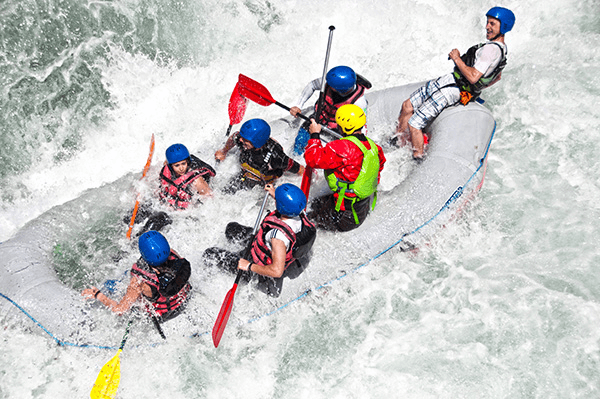
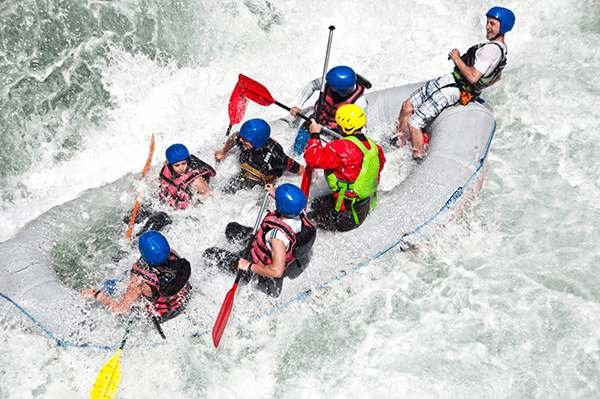
add wwr/images/

diff --git a/wwr/about.html b/wwr/about.html
@@ -15,61 +15,46 @@
     <header>
         <img src="images/logo.png" alt="Rapids! Rafting Logo" width="150">
         <nav>
-            <ul>
-                <li><a href="index.html">Home</a></li>
-                <li><a href="about.html">About Us</a></li>
-                <li><a href="trips.html">Trip</a></li>
-                <li><a href="contact.html">Contact Us</a></li>
-            </ul>
+            <a href="index.html">Home</a>
+            <a href="about.html">About Us</a>
+            <a href="trips.html">Trips</a>
+            <a href="contact.html">Contact Us</a>
         </nav>
     </header>
 
     <main>
-        <!-- Hero Section -->
         <div class="hero">
             <img src="images/hero.jpg" alt="White water rafting on a wild river">
-
-            <!-- Overlay Banner -->
-            <div class="hero-banner">
-                <h1>Rapids! Make Memories!</h1>
-            </div>
-
-            <!-- Mission Box -->
-            <div class="mission-box">
+            <h1>Rapids! Make Memories!</h1>
+            <article>
+                <img src="images/small-rafting.jpg" alt="Small rafting action shot">
                 <p>Our goal is to provide you with the best experience possible. We have been
                     providing unforgettable experiences for over 30 years. We are a family owned and
                     operated business that is dedicated to providing you with the best experience
-                    possible. We have a team of experienced guides that are dedicated to providing
-                    you with the best experience possible.</p>
-                <img src="images/small-rafting.jpg" alt="Small rafting action shot"
-                  class="small-image">
-            </div>
+                    possible.</p>
+            </article>
         </div>
 
-        <!-- History Section -->
-        <section class="history-section">
+        <section>
             <h2>History</h2>
             <p>Rapids! started floating the river in 1995. We have been providing unforgettable
                 experiences for over 30 years. We are a family owned and operated business that is
-                dedicated to providing you with the best experience possible. We have a team of
-                experienced guides that are dedicated to providing you with the best experience
-                possible.</p>
+                dedicated to providing you with the best experience possible.</p>
         </section>
 
-        <!-- Adventure Section -->
-        <section class="adventure-section">
-            <h2>Adventure Awaits You</h2>
+        <section>
+            <h2>Adventure Awaits You!</h2>
         </section>
     </main>
 
     <footer>
         <p>&copy;2026 | Rapids! | Aniwen Blessing</p>
-        <div class="socialmedia">
+        <nav class="socialmedia">
             <a href="https://facebook.com"><img src="images/facebook-icon.png" alt="Facebook"></a>
             <a href="https://twitter.com"><img src="images/twitter-icon.png" alt="X (Twitter)"></a>
             <a href="https://instagram.com"><img src="images/instagram-icon.png"
                   alt="Instagram"></a>
-        </div>
+        </nav>
     </footer>
 </body>
 

diff --git a/wwr/styles/rafting.css b/wwr/styles/rafting.css
@@ -28,24 +28,24 @@ footer {
     margin: 0 auto;
 }
 
-/* ===== Header ===== */
-header img {
-    display: block;
-    margin-bottom: 10px;
-}
-
-header nav ul {
-    list-style-type: none;
-    padding: 0;
-}
-
-header nav li {
-    margin: 5px 0;
-}
-
-header nav a {
-    text-decoration: none;
+/* ===== Typography / Headings ===== */
+h1,
+h2 {
+    font-family: var(--heading-font);
     color: var(--primary-color);
+    margin: 16px 0;
+}
+
+/* ===== Navigation ===== */
+header nav {
+    display: flex;
+    gap: 16px;
+    margin: 16px 0;
+}
+
+.socialmedia a {
+    text-decoration: none;
+    margin: 0 8px;
 }
 
 /* ===== Hero Section ===== */
@@ -60,69 +60,48 @@ header nav a {
     height: auto;
 }
 
-/* Hero Banner (Dark Blue Bar with White Text) */
-.hero-banner {
+.hero h1 {
     position: absolute;
-    top: 0;
-    left: 0;
+    top: 20px;
     width: 100%;
-    background-color: var(--primary-color);
-    padding: 16px;
     text-align: center;
-}
-
-.hero-banner h1 {
-    color: white;
+    background-color: var(--accent1-color);
+    color: #000;
+    padding: 16px;
     font-size: 2.2rem;
     margin: 0;
 }
 
-/* Mission Box (Dark Semi-Transparent Box Over Image) */
-.mission-box {
+.hero article {
     position: absolute;
     bottom: 20px;
     left: 20px;
-    width: calc(100% - 40px);
-    background-color: rgba(0, 0, 0, 0.7);
-    color: white;
-    padding: 16px;
+    background-color: rgba(255, 255, 255, 0.85);
+    padding: 12px;
     border-radius: 8px;
-    display: flex;
-    align-items: center;
-    gap: 16px;
+    max-width: 60%;
+    color: var(--primary-color);
 }
 
-.mission-box p {
-    margin: 0;
-    flex: 1;
-    line-height: 1.5;
-}
-
-.mission-box .small-image {
-    width: 100px;
-    border-radius: 4px;
-    flex-shrink: 0;
+.hero article img {
+    float: right;
+    width: 125px;
+    margin-left: 12px;
+    border-radius: 6px;
 }
 
 /* ===== Sections ===== */
-.history-section,
-.adventure-section {
-    margin: 20px 0;
-    padding: 0;
+section {
+    margin: 16px;
+    padding: 8px;
 }
 
-.history-section h2,
-.adventure-section h2 {
+section h2 {
     background-color: var(--primary-color);
     color: white;
     padding: 10px;
     text-align: center;
-    margin: 0;
-}
-
-.history-section p {
-    margin: 16px 0;
-    line-height: 1.5;
+    margin: 0 0 10px 0;
 }
 
 /* ===== Footer ===== */
@@ -135,21 +114,4 @@ footer {
 
 footer p {
     margin: 0 0 10px 0;
-}
-
-.socialmedia {
-    display: flex;
-    justify-content: center;
-    gap: 16px;
-    margin-top: 10px;
-}
-
-.socialmedia a {
-    text-decoration: none;
-}
-
-.socialmedia img {
-    width: 32px;
-    height: 32px;
-    border-radius: 4px;
 }
